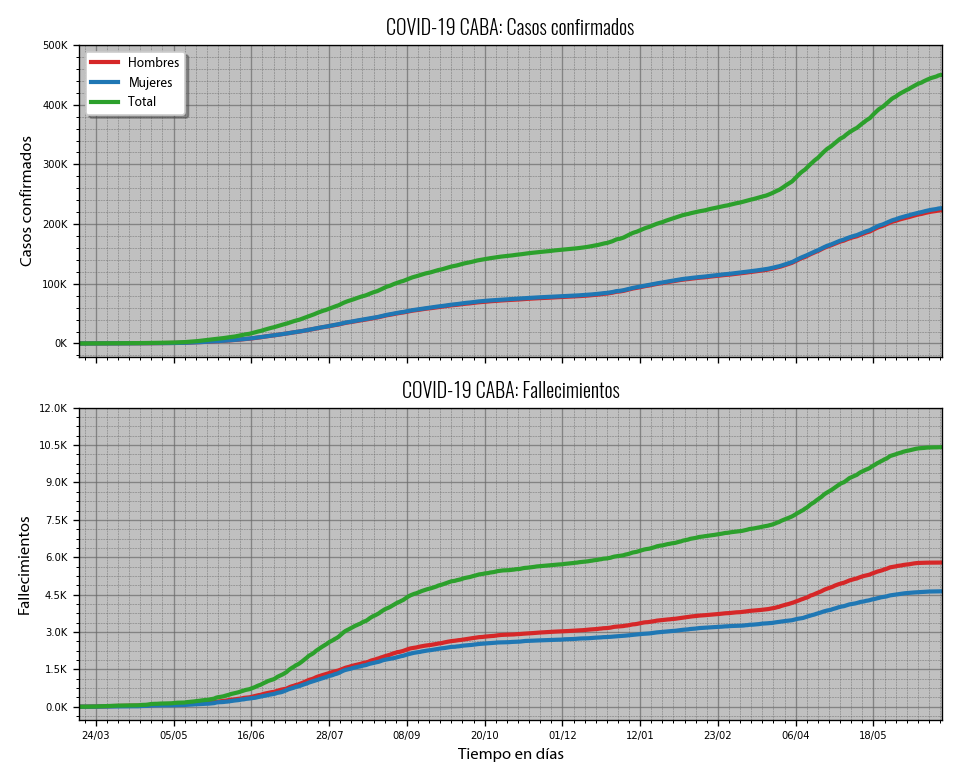
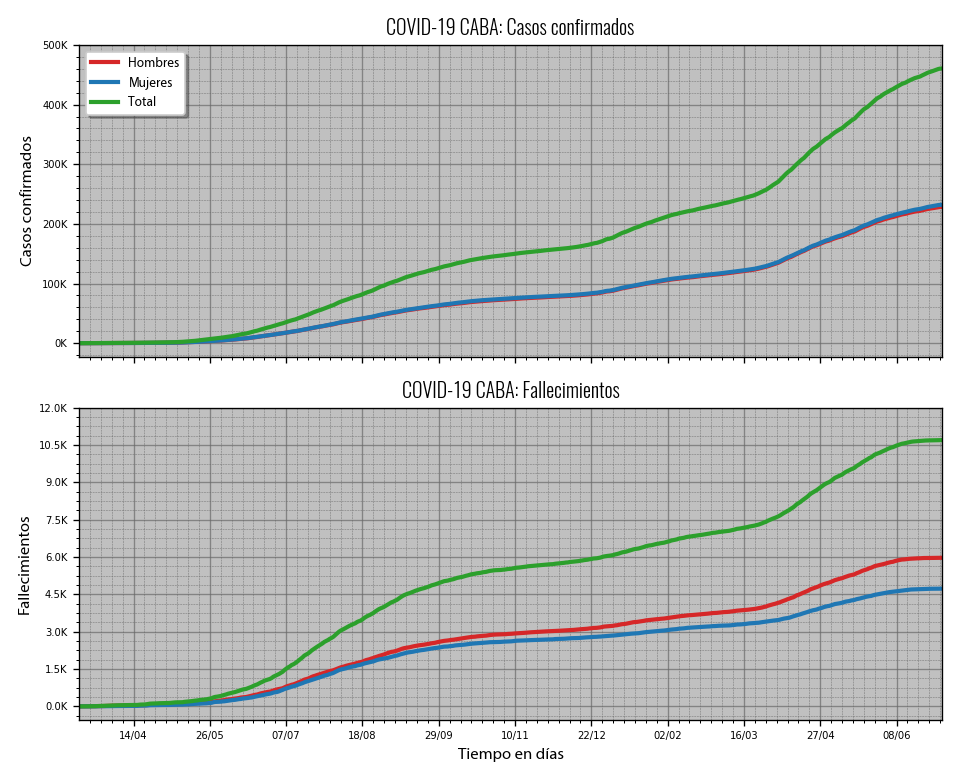
Updating charts...

Changed region(s): [[0.0625, 0.5231, 1.0, 0.9538], [0.0938, 0.0615, 1.0, 0.4615]]

diff --git a/chart_config.py b/chart_config.py
@@ -26,7 +26,7 @@ language = 1 #0 = english, 1 = spanish
 legend_text_size = 8
 plot_scale = "linear"
 start_date = "2020-11-01"
-end_date = "2021-06-24"
+end_date = "2021-07-03"
 week_interval = 3
 v_start_date = "2021-01-01"
 v_week_interval = 2
